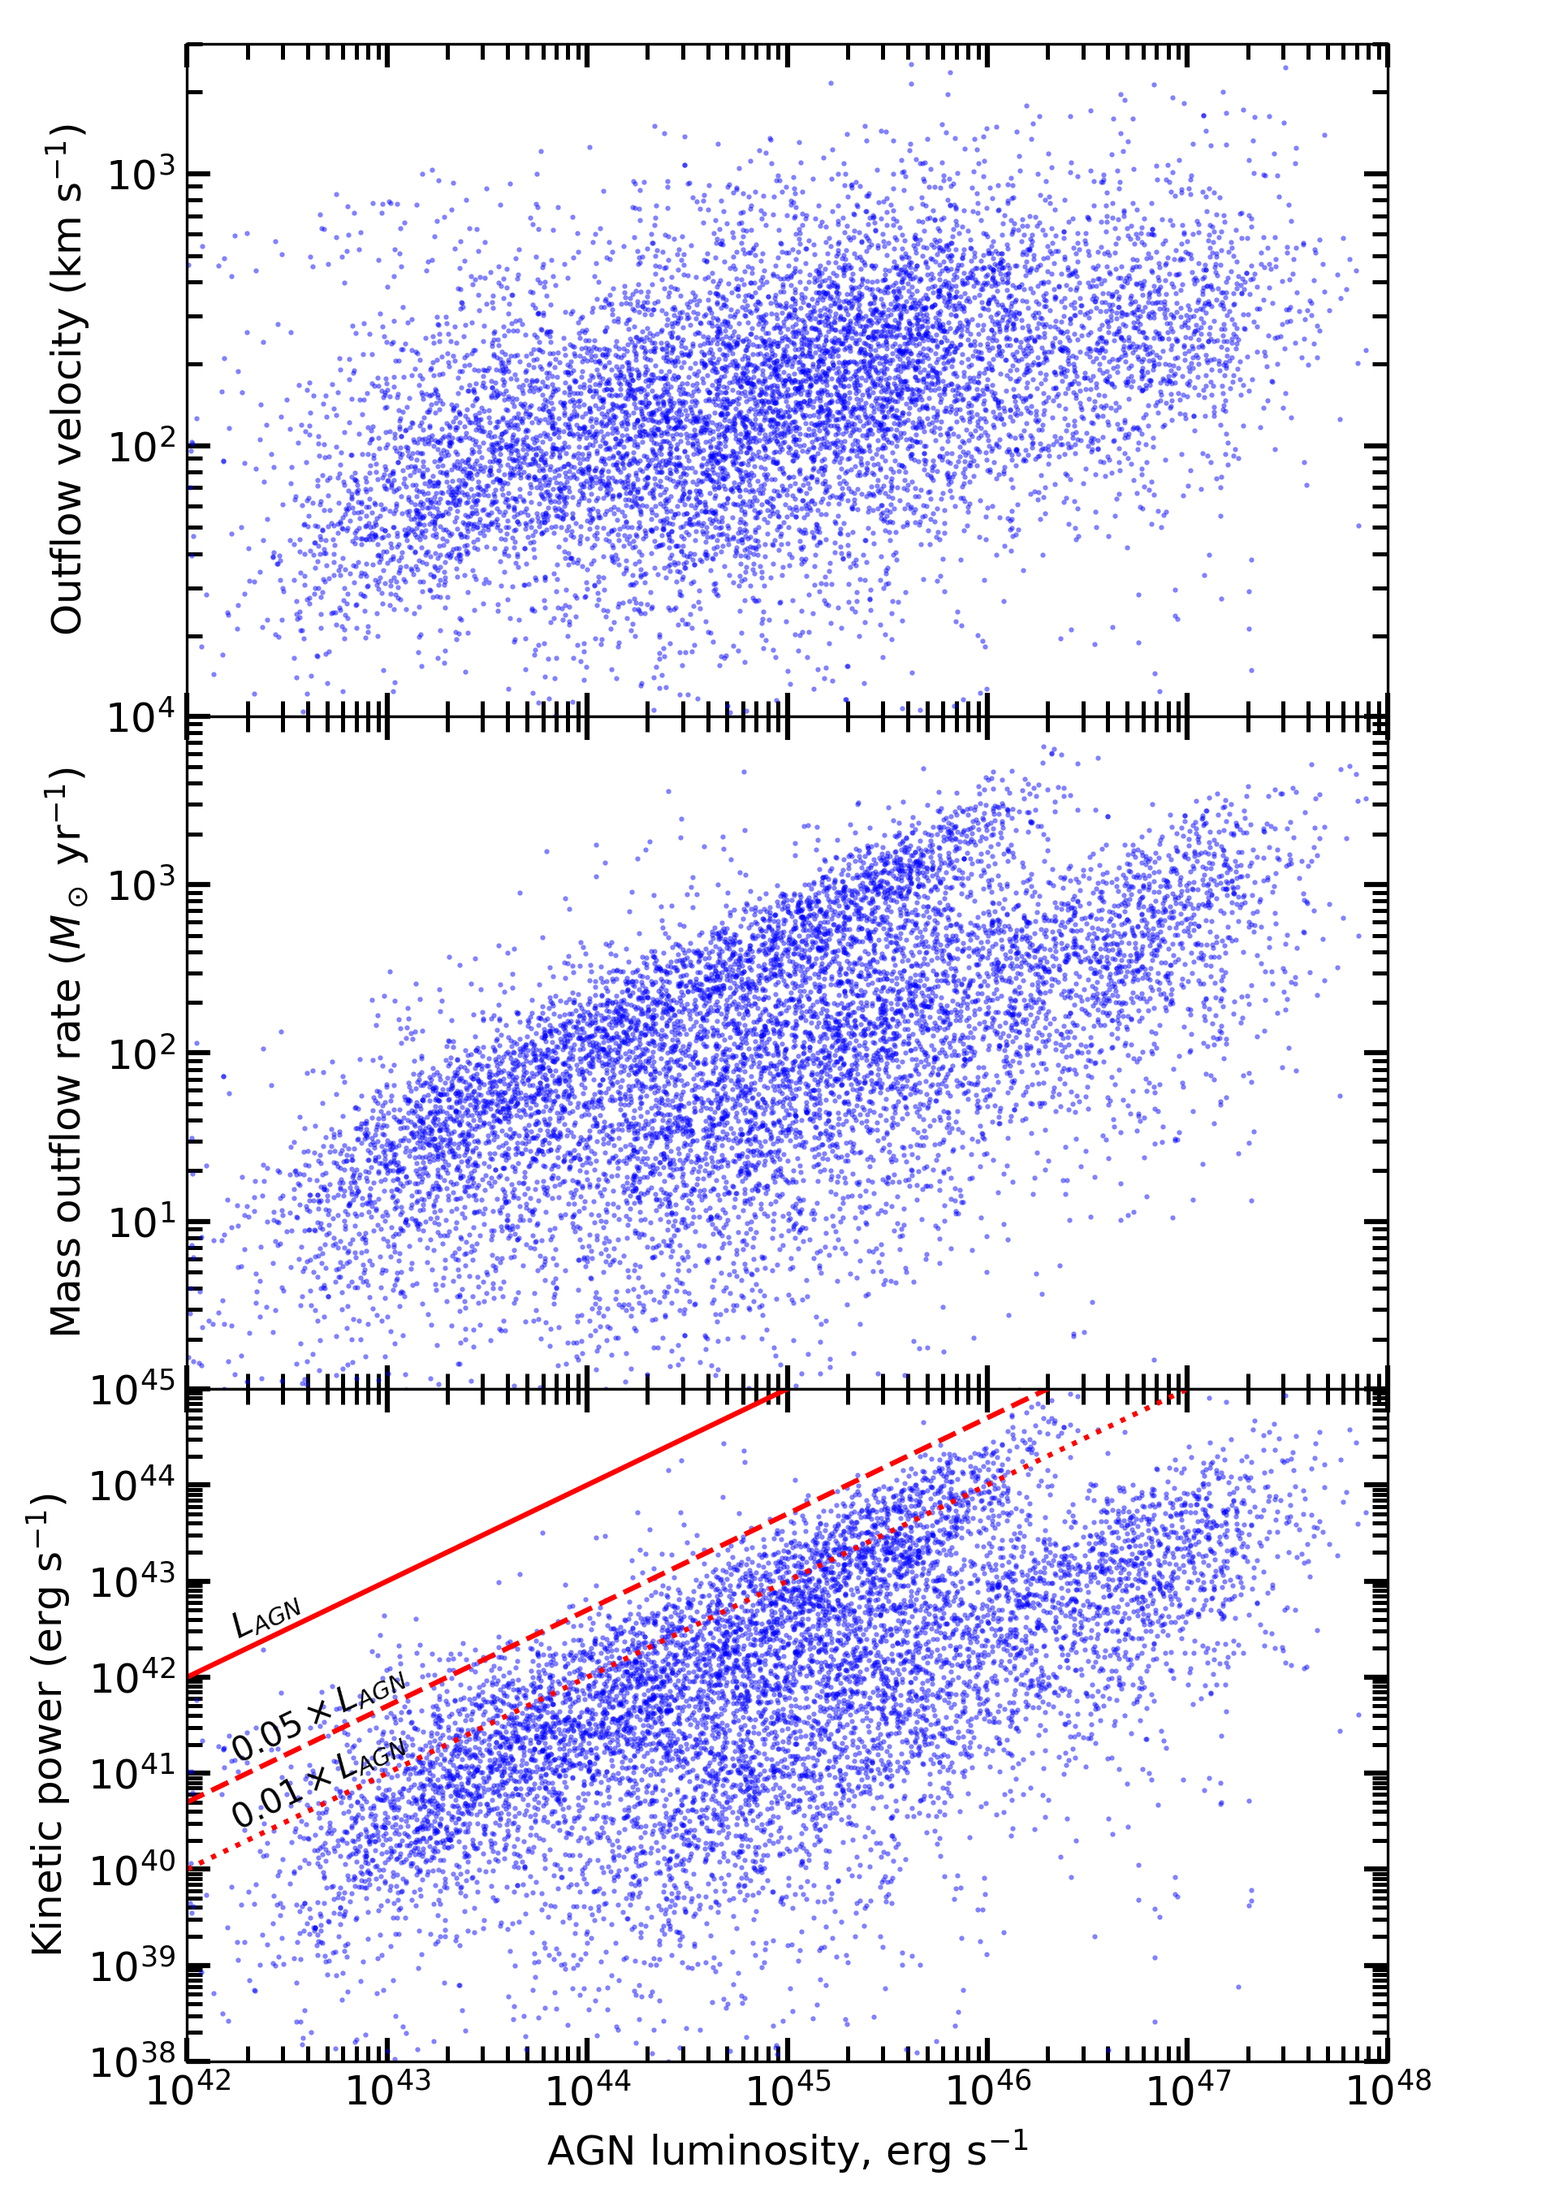
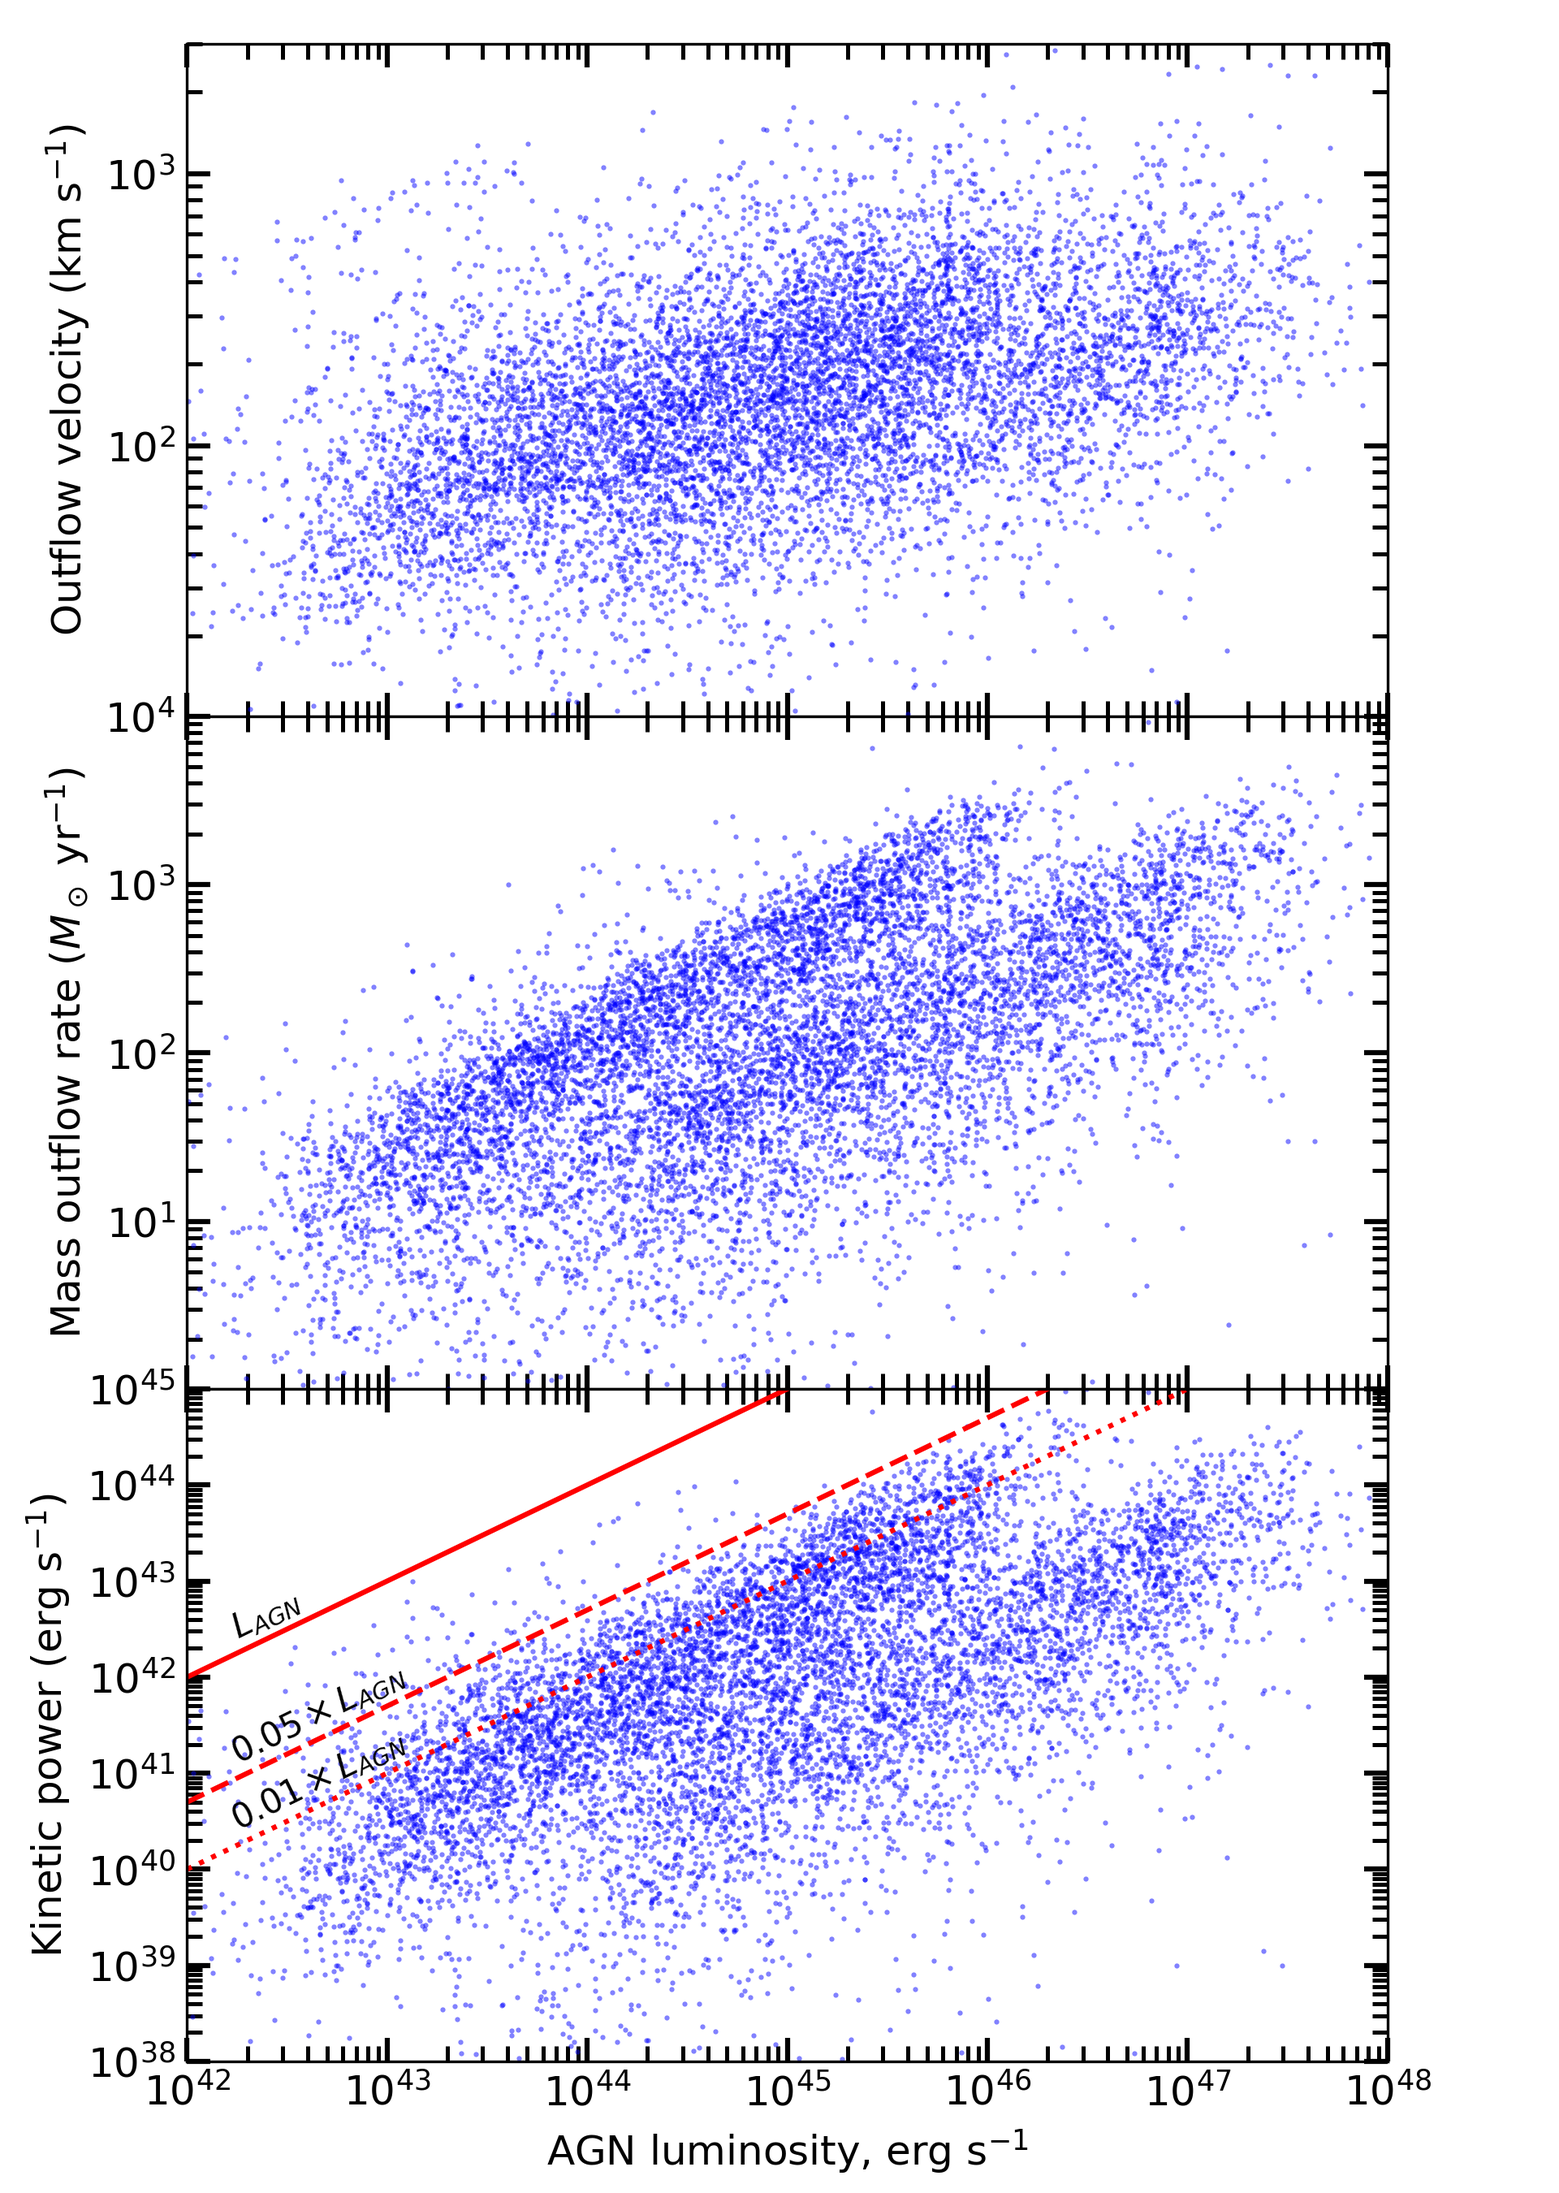
Improve figures and cleanup

Changed region(s): [[0.1562, 0.0622, 0.875, 0.3111], [0.125, 0.3422, 0.8438, 0.6222], [0.1562, 0.6222, 0.875, 0.9333]]

diff --git a/magnofit/simulation.py b/magnofit/simulation.py
@@ -38,13 +38,12 @@ def run_outflow_simulation(
     rng=np.random.default_rng(0),
 ):
     dtmax = init_params.quasar_activity_duration * 0.1
-    #print("dtmax:", dtmax)
     agn_episode_start_flag = 0
     courant_factor = 0.02
 
     curr_outflow = OutflowState(
-        radius=5.0 / 1000.0 / const.UNIT_KPC,
-        dot_radius=100000.0 / const.UNIT_VELOCITY, #1684594
+        radius=0.001 / const.UNIT_KPC,
+        dot_radius=100000.0 / const.UNIT_VELOCITY,
     )
     curr_galaxy = copy(init_params)
 
@@ -111,7 +110,6 @@ def run_outflow_simulation(
         dot_t2 = curr_outflow.dot_radius / (
             abs(curr_outflow.dotdot_radius) + np.finfo(float).eps
         )
-        '''
         # acceleration / jerk
         dot_t3 = curr_outflow.dotdot_radius / (
             abs(curr_outflow.dotdotdot_radius) + np.finfo(float).eps
@@ -119,8 +117,6 @@ def run_outflow_simulation(
 
         # Most conservative time step size
         dt = courant_factor * min(abs(dot_t1), abs(dot_t2), abs(dot_t3))
-        '''
-        dt = courant_factor * min(abs(dot_t1), abs(dot_t2))
 
         # We have to be careful at the start of each AGN episode in order to
         # propagate the derivatives of radius properly.
@@ -144,7 +140,7 @@ def run_outflow_simulation(
             )  # want an epsilon to make sure we are inside an AGN episode now
 
         dt = max(dt, dt_min)
-        dt = min(dt, 5.0 / const.UNIT_YEAR)
+        dt = min(dt, dtmax)
 
         curr_outflow.dot_time = dt
         next_outflow = OutflowState(time=curr_outflow.time + dt)
@@ -197,7 +193,6 @@ def run_outflow_simulation(
             )
 
         # Calculates next radius and its derivatives from various current parameters
-        '''
         (
             next_outflow.radius,
             next_outflow.dot_radius,
@@ -216,20 +211,6 @@ def run_outflow_simulation(
             mean_luminosity,
             dt,
         )
-        '''
-        (
-            next_outflow.radius,
-            next_outflow.dot_radius,
-            next_outflow.dotdot_radius,
-        ) = tc.luminosity_pressure_time_step(
-            curr_outflow.radius,
-            curr_outflow.dot_radius,
-            mass_potential,
-            mass_gas,
-            dot_mass_gas,
-            mean_luminosity,
-            dt,
-        )
 
         outflows.append(curr_outflow)
         galaxy_params.append(curr_galaxy)
@@ -238,10 +219,7 @@ def run_outflow_simulation(
             print(
                 f"At step = {timestep} time = {curr_outflow.time} calc failed due to negative radius."
             )
-            outflow_table = io.outflows_to_table(outflows, galaxy_params)
-            if max(outflow_table["radius"]) > 0.02:
-                return 3
-            return 1
+            return None
 
         curr_outflow = next_outflow
         next_outflow = OutflowState()
@@ -251,7 +229,7 @@ def run_outflow_simulation(
 
     outflow_table = io.outflows_to_table(outflows, galaxy_params)
     if max(outflow_table["radius"]) < 0.02:
-        return 2
+        return None
 
     largescale_outflows = outflow_table[outflow_table["radius"] > 0.02]
 

diff --git a/tools/generate.py b/tools/generate.py
@@ -18,7 +18,6 @@ from magnofit.galaxy import Galaxy
 import magnofit.constants as const
 from magnofit.simulation import run_outflow_simulation
 import magnofit.calc.luminosity
-import magnofit.calc.mass
 
 
 def generate_initial_parameter_collection_randomised(number=1):
@@ -33,7 +32,6 @@ def generate_initial_parameter_collection_randomised(number=1):
             quasar_activity_duration=rng.uniform(10 ** 4.0, 10 ** 5.5)
             / const.UNIT_YEAR,
             fade=magnofit.calc.luminosity.LuminosityFadeKing(),
-            #bulge_profile=magnofit.calc.mass.MassAlpha(rng.uniform(1.9, 2.2)),
         )
         galaxy_params.generate_stochastic_parameters(rng)
         galaxy_param_collection.append(galaxy_params)
@@ -86,30 +84,16 @@ if __name__ == "__main__":
     print(f"Joining and stacking tables...")
     start_time = time.time()
     outflow_dataframe = []
-    negatives = 0
-    small_rads = 0
-    others = 0
-    alls = 0
-    big_but_negatives = 0
     for galaxy_params, outflow_properties in zip(
         galaxy_param_collection, outflow_properties_collection
     ):
-        if outflow_properties == 1:
-            negatives += 1
-        elif outflow_properties == 2:
-            small_rads += 1
-        elif outflow_properties == 3:
-            big_but_negatives += 1
-        else:
-            others += 1
-        alls += 1
-        if outflow_properties not in [1, 2, 3]:
+        if outflow_properties is not None:
             galaxy_params = galaxy_params.to_table().to_pandas()
             outflow_properties = outflow_properties.to_pandas()
 
             outflow = outflow_properties.merge(galaxy_params, how="cross")
             outflow_dataframe.append(outflow)
-    print("Negatives", negatives/alls, "Small rads", small_rads/alls, "big but negative", big_but_negatives/alls)
+
     for idx, outflow_properties in enumerate(outflow_dataframe):
         outflow_properties["id"] = idx
     outflow_dataframe = pd.concat(outflow_dataframe, ignore_index=True, sort=False)
@@ -121,7 +105,7 @@ if __name__ == "__main__":
     start_time = time.time()
     os.makedirs("./outputs", exist_ok=True)
     outflow_table.write(
-        "./outputs/outflows_lumpress3.hdf5",
+        "./outputs/outflows.hdf5",
         format="hdf5",
         path="outflow_properties",
         serialize_meta=True,
@@ -129,4 +113,3 @@ if __name__ == "__main__":
     )
     end_time = time.time()
     print(f"Saving took {end_time - start_time:.2f} s.")
-    print(len(outflow_table))

diff --git a/tools/predict_real_data_by_type.py b/tools/predict_real_data_by_type.py
@@ -10,11 +10,6 @@ import tools.utils as utils
 
 
 real_outflows = utils.load_real_outflows()
-real_subset_bright = real_outflows["log_f_Edd"] > -1.65
-real_subset_medium = (real_outflows["log_f_Edd"] > -2.5) & (
-    real_outflows["log_f_Edd"] < -1.65
-)
-real_subset_dim = real_outflows["log_f_Edd"] < -2.5
 
 X_real = real_outflows[utils.input_params]
 
@@ -32,10 +27,9 @@ predictions_df = pd.DataFrame(
     index=real_outflows.index,
 )
 
-outflows_and_predictions_df = pd.merge(
+outflow_pred_df = pd.merge(
     real_outflows, predictions_df, left_index=True, right_index=True
 )
-outflows_and_predictions_df.to_csv("./outputs/real_predictions.csv")
 
 utils.output_params.remove("bulge_mass")
 
@@ -69,16 +63,19 @@ for idx, column_name in enumerate(utils.output_params):
         minval = 0
         maxval = 0.15
 
+    colors = [plt.cm.Set1(i) for i in range(4)]
     plt.hist(
         [
-            predictions_df[real_subset_bright][column_name],
-            predictions_df[real_subset_medium][column_name],
-            predictions_df[real_subset_dim][column_name],
+            outflow_pred_df[outflow_pred_df["agn_type"] == "Type 1"][column_name],
+            outflow_pred_df[outflow_pred_df["agn_type"] == "Type 2"][column_name],
+            outflow_pred_df[outflow_pred_df["agn_type"] == "LINER"][column_name],
+            outflow_pred_df[outflow_pred_df["agn_type"] == "HII"][column_name],
         ],
         bins=12,
         range=(minval, maxval),
         histtype="barstacked",
         stacked=True,
+        color=colors
     )
 
     plt.xlim(minval, maxval)
@@ -91,9 +88,10 @@ for idx, column_name in enumerate(utils.output_params):
     if column_name == "outflow_solid_angle_fraction":
         plt.legend(
             [
-                "log $f_{Edd}$ > -1.7",
-                "-1.7 > log $f_{Edd}$ > -2.5",
-                "log $f_{Edd}$ < -2.5",
+                "Type 1",
+                "Type 2",
+                "LINER",
+                "HII",
             ]
         )
     elif column_name == "quasar_activity_duration":
@@ -119,4 +117,4 @@ fig = plt.gcf()
 fig.set_size_inches(9.0, 8.0)
 plt.subplots_adjust(wspace=0.4, hspace=0.25)
 
-plt.savefig(f"./figures/real_predictions.png", dpi=300)
+plt.savefig(f"./figures/real_predictions_by_type.png", dpi=300)

diff --git a/magnofit/calc/time.py b/magnofit/calc/time.py
@@ -1,5 +1,3 @@
-import numpy as np
-
 from .. import constants as const
 
 
@@ -11,24 +9,6 @@ def simple_time_step(radius, dot_radius, dotdot_radius, dotdotdot_radius, mass_p
     radius_new = radius + dot_radius_new * dt + 0.5 * dotdot_radius_new * dt ** 2. + (1. / 6.) * dotdotdot_radius_new * dt ** 3.
 
     return radius_new, dot_radius_new, dotdot_radius_new, dotdotdot_radius_new
-
-def luminosity_pressure_time_step(radius, dot_radius, mass_potential, mass_gas, dot_mass_gas, luminosity, dt):
-    #dotdot_radius_new = accel_calc(luminosity, mass_gas, dot_mass_gas, mass_potential, radius, kappa_IR, kappa_UV)
-    kappa_IR = 5
-    kappa_UV = 1000
-
-    G = 1.0
-    c = 2044.4885866463312 #2046.38472
-
-    tau_IR = kappa_IR * mass_gas / (4 * np.pi * radius**2)
-    tau_UV = kappa_UV * mass_gas / (4 * np.pi * radius**2)
-
-    dotdot_radius_new = luminosity / (c * mass_gas) * (1 + tau_IR - np.exp(- tau_UV)) - G * mass_potential / radius**2 - dot_mass_gas * dot_radius / mass_gas;
-    dot_radius_new = dot_radius + dotdot_radius_new * dt
-    dot_radius_new, dotdot_radius_new, _ = cap_velocities(dot_radius_new, dotdot_radius_new, 0)
-    radius_new = radius + dot_radius_new * dt + 0.5 * dotdot_radius_new * dt ** 2
-
-    return radius_new, dot_radius_new, dotdot_radius_new
 
 
 def leapfrog_dkd_time_step(radius, dot_radius, dotdot_radius, dotdotdot_radius, mass_potential, dot_mass_potential, mass_gas, dot_mass_gas, dotdot_mass_gas, luminosity, dt):

diff --git a/tools/predict.py b/tools/predict.py
@@ -8,10 +8,7 @@ import matplotlib.pyplot as plt
 import tools.utils as utils
 
 
-outflow_properties = utils.load_simulated_outflows(path=f"./outputs/outflows.hdf5")
-
-X_test = utils.to_numpy(outflow_properties[utils.input_params])
-y_test = utils.to_numpy(outflow_properties[utils.output_params])
+outflow_properties = utils.load_simulated_outflows()
 
 X = utils.to_numpy(outflow_properties[utils.input_params])
 y = utils.to_numpy(outflow_properties[utils.output_params])
@@ -21,7 +18,7 @@ train_mask, test_mask = utils.split_sets_masks(outflow_properties)
 X_test, y_test = X[test_mask], y[test_mask]
 
 
-X_mean, X_stddev, y_mean, y_stddev = utils.load_normalization(path="./outputs/normalization_parameters.npz")
+X_mean, X_stddev, y_mean, y_stddev = utils.load_normalization()
 
 X_test = utils.normalize(X_test, X_mean, X_stddev)
 y_test = utils.normalize(y_test, y_mean, y_stddev)
@@ -35,10 +32,8 @@ prediction_table = utils.from_numpy(
     y_test_predictions_denorm, column_names=utils.output_params
 )
 
-#groundtruth_table = outflow_properties
-#prediction_table["id"] = outflow_properties["id"]
-
 groundtruth_table = outflow_properties[test_mask]
+
 prediction_table["id"] = outflow_properties[test_mask]["id"]
 
 utils.output_params.remove("bulge_mass")

diff --git a/tools/train.py b/tools/train.py
@@ -21,7 +21,7 @@ parser.add_argument("--activation", type=str, default="elu")
 parser.add_argument("--no-dropout", action="store_false")
 args = parser.parse_args()
 
-outflow_properties = utils.load_simulated_outflows(path="./outputs/outflows_lumpress3.hdf5")
+outflow_properties = utils.load_simulated_outflows()
 
 X = utils.to_numpy(outflow_properties[utils.input_params])
 y = utils.to_numpy(outflow_properties[utils.output_params])
@@ -31,7 +31,7 @@ train_mask, test_mask = utils.split_sets_masks(outflow_properties)
 X_train, y_train = X[train_mask], y[train_mask]
 X_test, y_test = X[test_mask], y[test_mask]
 
-X_mean, X_stddev, y_mean, y_stddev = utils.fit_normalization(X_train, y_train, path="./outputs/normalization_parameters_lumpress3.npz")
+X_mean, X_stddev, y_mean, y_stddev = utils.fit_normalization(X_train, y_train)
 
 X_train = utils.normalize(X_train, X_mean, X_stddev)
 y_train = utils.normalize(y_train, y_mean, y_stddev)
@@ -97,4 +97,4 @@ for m, name in zip(individual_mses, utils.output_params):
 
 print()
 print()
-model.save("./outputs/model_lumpress3.h5")
+model.save("./outputs/model.h5")

diff --git a/tools/generate_from_real_outflows.py b/tools/generate_from_real_outflows.py
@@ -47,7 +47,7 @@ initial_real_outflows = pd.read_csv("observed_outflows.csv")
 initial_real_outflows = initial_real_outflows[initial_real_outflows.type == "full"]
 initial_real_outflows.reset_index(drop=True, inplace=True)
 
-predicted_real_outflows = pd.read_csv("./outputs/real_predictions_lumpress2.csv")
+predicted_real_outflows = pd.read_csv("./outputs/real_predictions.csv")
 generated_model_params = generate_model_parameters(
     predicted_real_outflows, initial_real_outflows
 )
@@ -91,6 +91,6 @@ print()
 print(f"Saving simulations to disk...")
 start_time = time.time()
 os.makedirs("./outputs", exist_ok=True)
-outflow_dataframe.to_csv("./outputs/generated_outflows_from_real_predictions_lumpress2.csv")
+outflow_dataframe.to_csv("./outputs/generated_outflows_from_real_predictions.csv")
 end_time = time.time()
 print(f"Saving took {end_time - start_time:.2f} s.")

diff --git a/README.md b/README.md
@@ -73,4 +73,4 @@ Pull requests are welcome. For major changes, please open an issue first to disc
 Please make sure to update tests as appropriate.
 
 ## License
-The project is made available under the MIT license. See the [LICENSE](LICENSE.md) file for more information. If you use this software when preparing a publication, please cite Zubovas, Bialopetravičius & Kazlauskaitė (2022) [ADS link will appear here in due time].
+The project is made available under the MIT license. See the [LICENSE](LICENSE.md) file for more information. If you use this software when preparing a publication, please cite [Zubovas, Bialopetravičius & Kazlauskaitė (2022)](https://ui.adsabs.harvard.edu/abs/2022arXiv220701959Z).
